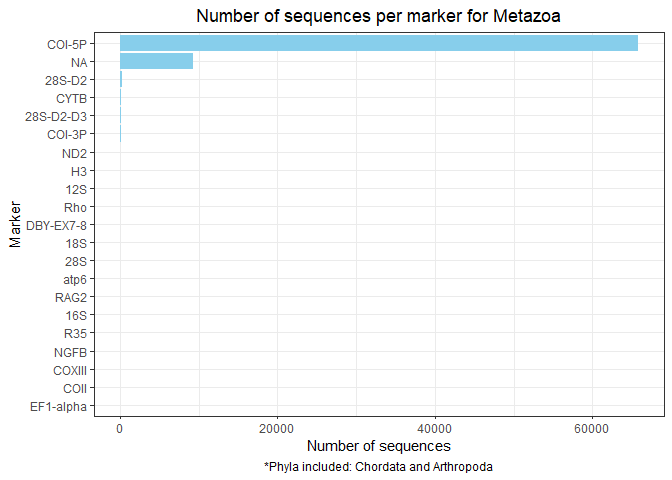
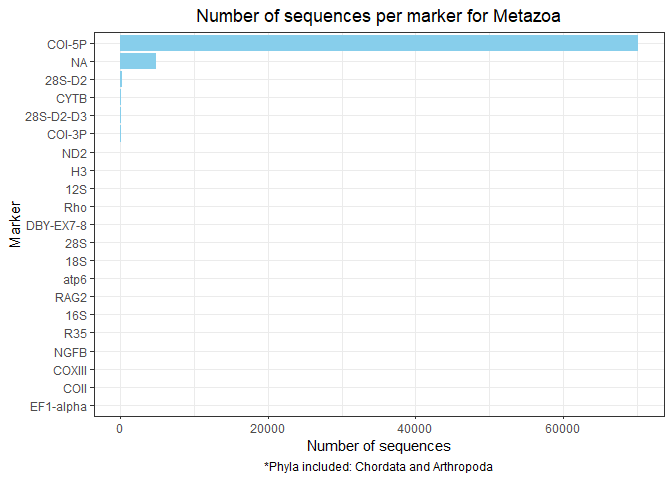
corrected col number to newly created column marker

diff --git a/scripts/4_EDA_bold.md b/scripts/4_EDA_bold.md
@@ -156,11 +156,53 @@ Sequences from kingdom Archaea
     ##   <chr>         <chr>      <int>
     ## 1 Crenarchaeota Archaea        2
 
-Detailed analysis into phyla of interest: Metazoa: Chordata and
-Arthropoda Viridiplantae: Magnoliophyta and Pinophyta Fungi: Ascomycota
-and Basidiomycota
+Detailed analysis into phyla of interest:
+
+Metazoa: Chordata and Arthropoda
+
+Viridiplantae: Magnoliophyta and Pinophyta
+
+Fungi: Ascomycota and Basidiomycota
 
 Analysis on genetic markers available for the selected organisms.
+
+Genetic markers available for all organisms:
+
+    ## # A tibble: 32 x 2
+    ##    marker         `n()`
+    ##    <chr>          <int>
+    ##  1 COI-5P         70181
+    ##  2 <NA>            4877
+    ##  3 matK            2423
+    ##  4 ITS2            1859
+    ##  5 rbcLa           1846
+    ##  6 ITS             1419
+    ##  7 28S-D2           326
+    ##  8 rbcL             326
+    ##  9 CYTB             153
+    ## 10 28S-D2-D3        139
+    ## 11 trnD-trnY-trnE   102
+    ## 12 trnH-psbA        102
+    ## 13 ycf1             102
+    ## 14 COI-3P            94
+    ## 15 5.8S              59
+    ## 16 ITS1              59
+    ## 17 ND2               42
+    ## 18 H3                37
+    ## 19 12S               31
+    ## 20 Rho               19
+    ## 21 28S               15
+    ## 22 DBY-EX7-8         14
+    ## 23 18S               12
+    ## 24 atp6               6
+    ## 25 16S                5
+    ## 26 RAG2               5
+    ## 27 NGFB               3
+    ## 28 R35                3
+    ## 29 COII               2
+    ## 30 COXIII             2
+    ## 31 EF1-alpha          1
+    ## 32 trnL-F             1
 
 Number of sequences per marker for Metazoa
 
@@ -168,35 +210,77 @@ Number of sequences per marker for Metazoa
     ## # Groups:   Marker [21]
     ##    Marker    latlon_info Number_sequences
     ##    <chr>     <lgl>                  <int>
-    ##  1 COI-5P    FALSE                   7595
-    ##  2 COI-5P    TRUE                   58221
-    ##  3 NA        FALSE                    368
-    ##  4 NA        TRUE                    8882
+    ##  1 COI-5P    FALSE                   7634
+    ##  2 COI-5P    TRUE                   62547
+    ##  3 NA        FALSE                    328
+    ##  4 NA        TRUE                    4546
     ##  5 28S-D2    FALSE                      4
-    ##  6 28S-D2    TRUE                     316
+    ##  6 28S-D2    TRUE                     322
     ##  7 CYTB      FALSE                     14
-    ##  8 CYTB      TRUE                     138
+    ##  8 CYTB      TRUE                     139
     ##  9 28S-D2-D3 FALSE                      7
     ## 10 28S-D2-D3 TRUE                     132
-    ## # ... with 22 more rows
+    ## 11 COI-3P    FALSE                     92
+    ## 12 COI-3P    TRUE                       2
+    ## 13 ND2       TRUE                      42
+    ## 14 H3        FALSE                      8
+    ## 15 H3        TRUE                      29
+    ## 16 12S       TRUE                      31
+    ## 17 Rho       FALSE                     19
+    ## 18 28S       FALSE                      2
+    ## 19 28S       TRUE                      12
+    ## 20 DBY-EX7-8 FALSE                      1
+    ## 21 DBY-EX7-8 TRUE                      13
+    ## 22 18S       FALSE                      6
+    ## 23 18S       TRUE                       6
+    ## 24 atp6      FALSE                      6
+    ## 25 16S       FALSE                      1
+    ## 26 16S       TRUE                       4
+    ## 27 RAG2      TRUE                       5
+    ## 28 NGFB      TRUE                       3
+    ## 29 R35       TRUE                       3
+    ## 30 COII      FALSE                      2
+    ## 31 COXIII    FALSE                      2
+    ## 32 EF1-alpha TRUE                       1
 
     ## # A tibble: 32 x 3
     ## # Groups:   Marker [21]
     ##    Marker    locality_info Number_sequences
     ##    <chr>     <lgl>                    <int>
-    ##  1 COI-5P    FALSE                    19980
-    ##  2 COI-5P    TRUE                     45836
-    ##  3 NA        FALSE                      138
-    ##  4 NA        TRUE                      9112
+    ##  1 COI-5P    FALSE                    20037
+    ##  2 COI-5P    TRUE                     50144
+    ##  3 NA        FALSE                       81
+    ##  4 NA        TRUE                      4793
     ##  5 28S-D2    FALSE                        4
-    ##  6 28S-D2    TRUE                       316
+    ##  6 28S-D2    TRUE                       322
     ##  7 CYTB      FALSE                        8
-    ##  8 CYTB      TRUE                       144
+    ##  8 CYTB      TRUE                       145
     ##  9 28S-D2-D3 TRUE                       139
     ## 10 COI-3P    FALSE                        4
-    ## # ... with 22 more rows
+    ## 11 COI-3P    TRUE                        90
+    ## 12 ND2       FALSE                       11
+    ## 13 ND2       TRUE                        31
+    ## 14 H3        TRUE                        37
+    ## 15 12S       FALSE                       31
+    ## 16 Rho       FALSE                        1
+    ## 17 Rho       TRUE                        18
+    ## 18 28S       FALSE                        5
+    ## 19 28S       TRUE                         9
+    ## 20 DBY-EX7-8 TRUE                        14
+    ## 21 18S       FALSE                        9
+    ## 22 18S       TRUE                         3
+    ## 23 atp6      FALSE                        2
+    ## 24 atp6      TRUE                         4
+    ## 25 16S       FALSE                        5
+    ## 26 RAG2      FALSE                        2
+    ## 27 RAG2      TRUE                         3
+    ## 28 NGFB      TRUE                         3
+    ## 29 R35       TRUE                         3
+    ## 30 COII      FALSE                        2
+    ## 31 COXIII    FALSE                        2
+    ## 32 EF1-alpha TRUE                         1
 
-![](4_EDA_bold_files/figure-gfm/unnamed-chunk-16-1.png)<!-- -->![](4_EDA_bold_files/figure-gfm/unnamed-chunk-16-2.png)<!-- -->![](4_EDA_bold_files/figure-gfm/unnamed-chunk-16-3.png)<!-- -->
+![](4_EDA_bold_files/figure-gfm/unnamed-chunk-17-1.png)<!-- -->![](4_EDA_bold_files/figure-gfm/unnamed-chunk-17-2.png)<!-- -->![](4_EDA_bold_files/figure-gfm/unnamed-chunk-17-3.png)<!-- -->
 
 Number of sequences per marker for Viridiplantae
 
@@ -205,7 +289,7 @@ Number of sequences per marker for Viridiplantae
     ##    Marker         latlon_info Number_sequences
     ##    <chr>          <lgl>                  <int>
     ##  1 matK           FALSE                   1125
-    ##  2 matK           TRUE                    1295
+    ##  2 matK           TRUE                    1298
     ##  3 rbcLa          FALSE                    142
     ##  4 rbcLa          TRUE                    1704
     ##  5 ITS2           FALSE                   1675
@@ -219,7 +303,7 @@ Number of sequences per marker for Viridiplantae
     ## 13 ycf1           FALSE                      9
     ## 14 ycf1           TRUE                      93
     ## 15 NA             FALSE                      1
-    ## 16 NA             TRUE                       4
+    ## 16 NA             TRUE                       1
     ## 17 ITS            TRUE                       1
     ## 18 trnL-F         FALSE                      1
 
@@ -227,8 +311,8 @@ Number of sequences per marker for Viridiplantae
     ## # Groups:   Marker [10]
     ##    Marker         locality_info Number_sequences
     ##    <chr>          <lgl>                    <int>
-    ##  1 matK           FALSE                     2011
-    ##  2 matK           TRUE                       409
+    ##  1 matK           FALSE                     2012
+    ##  2 matK           TRUE                       411
     ##  3 rbcLa          FALSE                     1623
     ##  4 rbcLa          TRUE                       223
     ##  5 ITS2           FALSE                      563
@@ -241,12 +325,12 @@ Number of sequences per marker for Viridiplantae
     ## 12 trnH-psbA      TRUE                       100
     ## 13 ycf1           FALSE                        2
     ## 14 ycf1           TRUE                       100
-    ## 15 NA             FALSE                        2
-    ## 16 NA             TRUE                         3
+    ## 15 NA             FALSE                        1
+    ## 16 NA             TRUE                         1
     ## 17 ITS            TRUE                         1
     ## 18 trnL-F         FALSE                        1
 
-![](4_EDA_bold_files/figure-gfm/unnamed-chunk-18-1.png)<!-- -->![](4_EDA_bold_files/figure-gfm/unnamed-chunk-18-2.png)<!-- -->![](4_EDA_bold_files/figure-gfm/unnamed-chunk-18-3.png)<!-- -->
+![](4_EDA_bold_files/figure-gfm/unnamed-chunk-19-1.png)<!-- -->![](4_EDA_bold_files/figure-gfm/unnamed-chunk-19-2.png)<!-- -->![](4_EDA_bold_files/figure-gfm/unnamed-chunk-19-3.png)<!-- -->
 
 Number of sequences per marker for Fungi
 
@@ -281,4 +365,4 @@ Number of sequences per marker for Fungi
     ## 11    28S         FALSE                0
     ## 12    28S          TRUE                1
 
-![](4_EDA_bold_files/figure-gfm/unnamed-chunk-20-1.png)<!-- -->![](4_EDA_bold_files/figure-gfm/unnamed-chunk-20-2.png)<!-- -->![](4_EDA_bold_files/figure-gfm/unnamed-chunk-20-3.png)<!-- -->
+![](4_EDA_bold_files/figure-gfm/unnamed-chunk-21-1.png)<!-- -->![](4_EDA_bold_files/figure-gfm/unnamed-chunk-21-2.png)<!-- -->![](4_EDA_bold_files/figure-gfm/unnamed-chunk-21-3.png)<!-- -->
